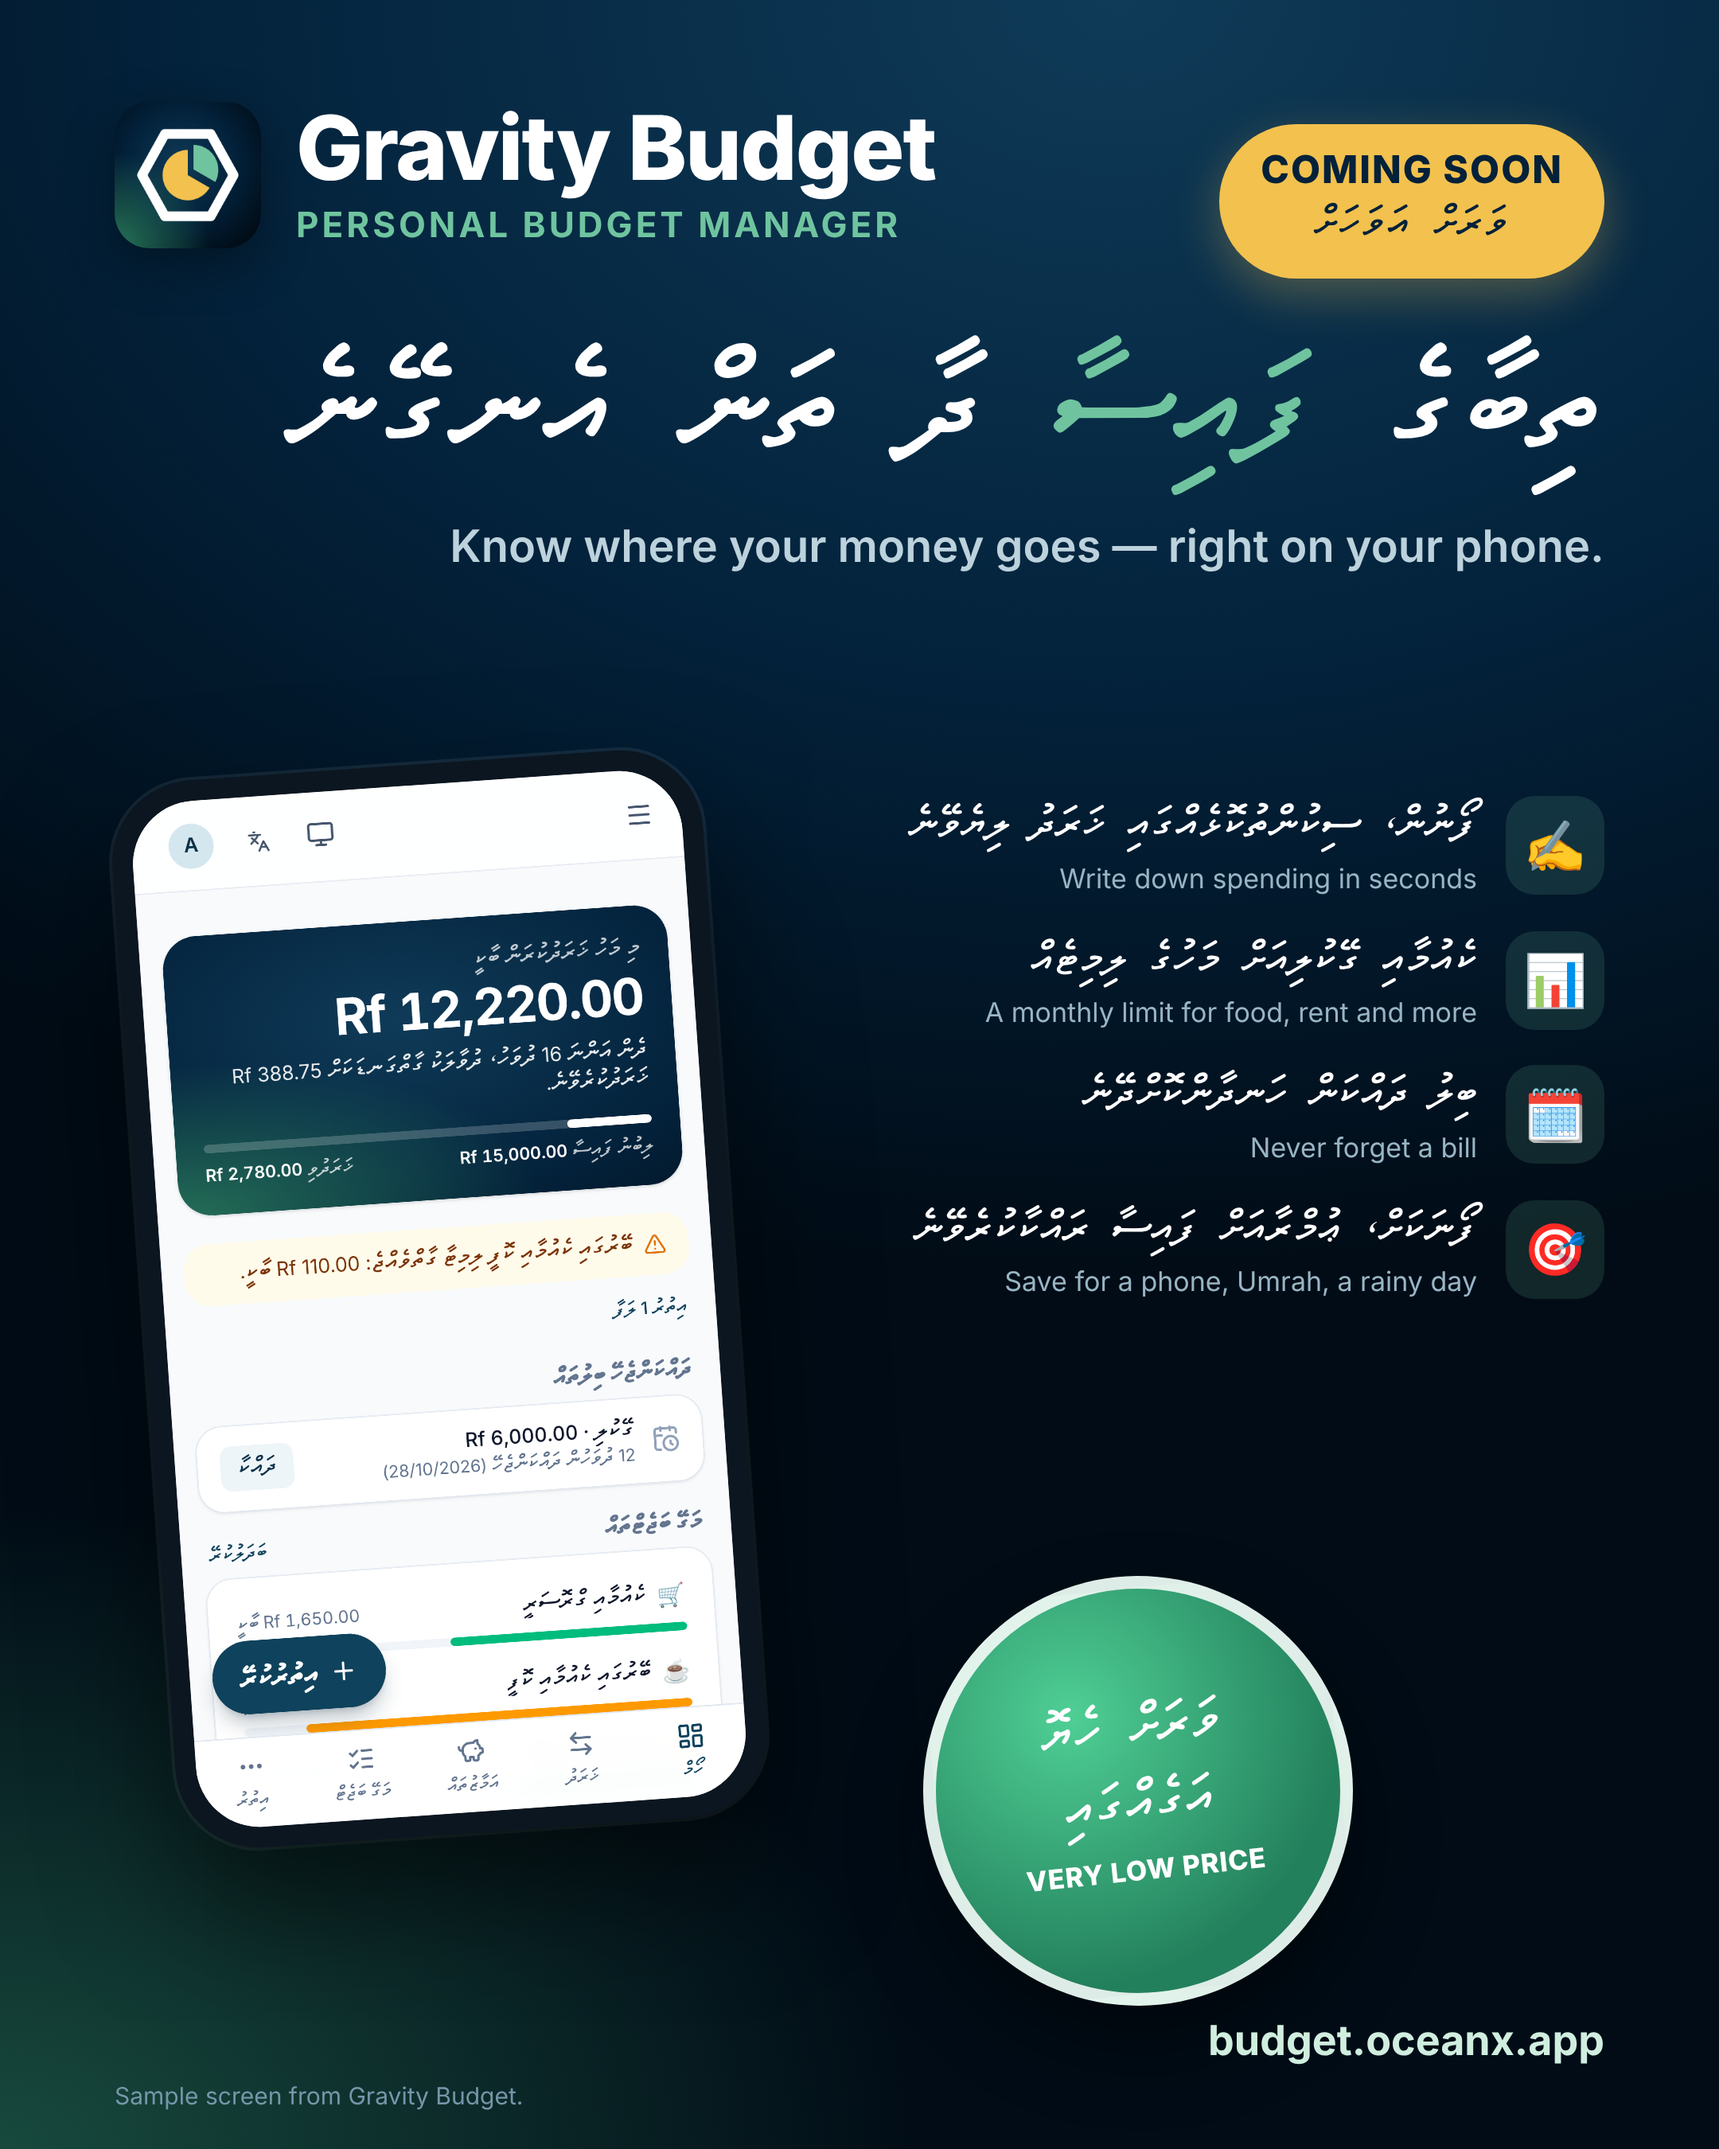
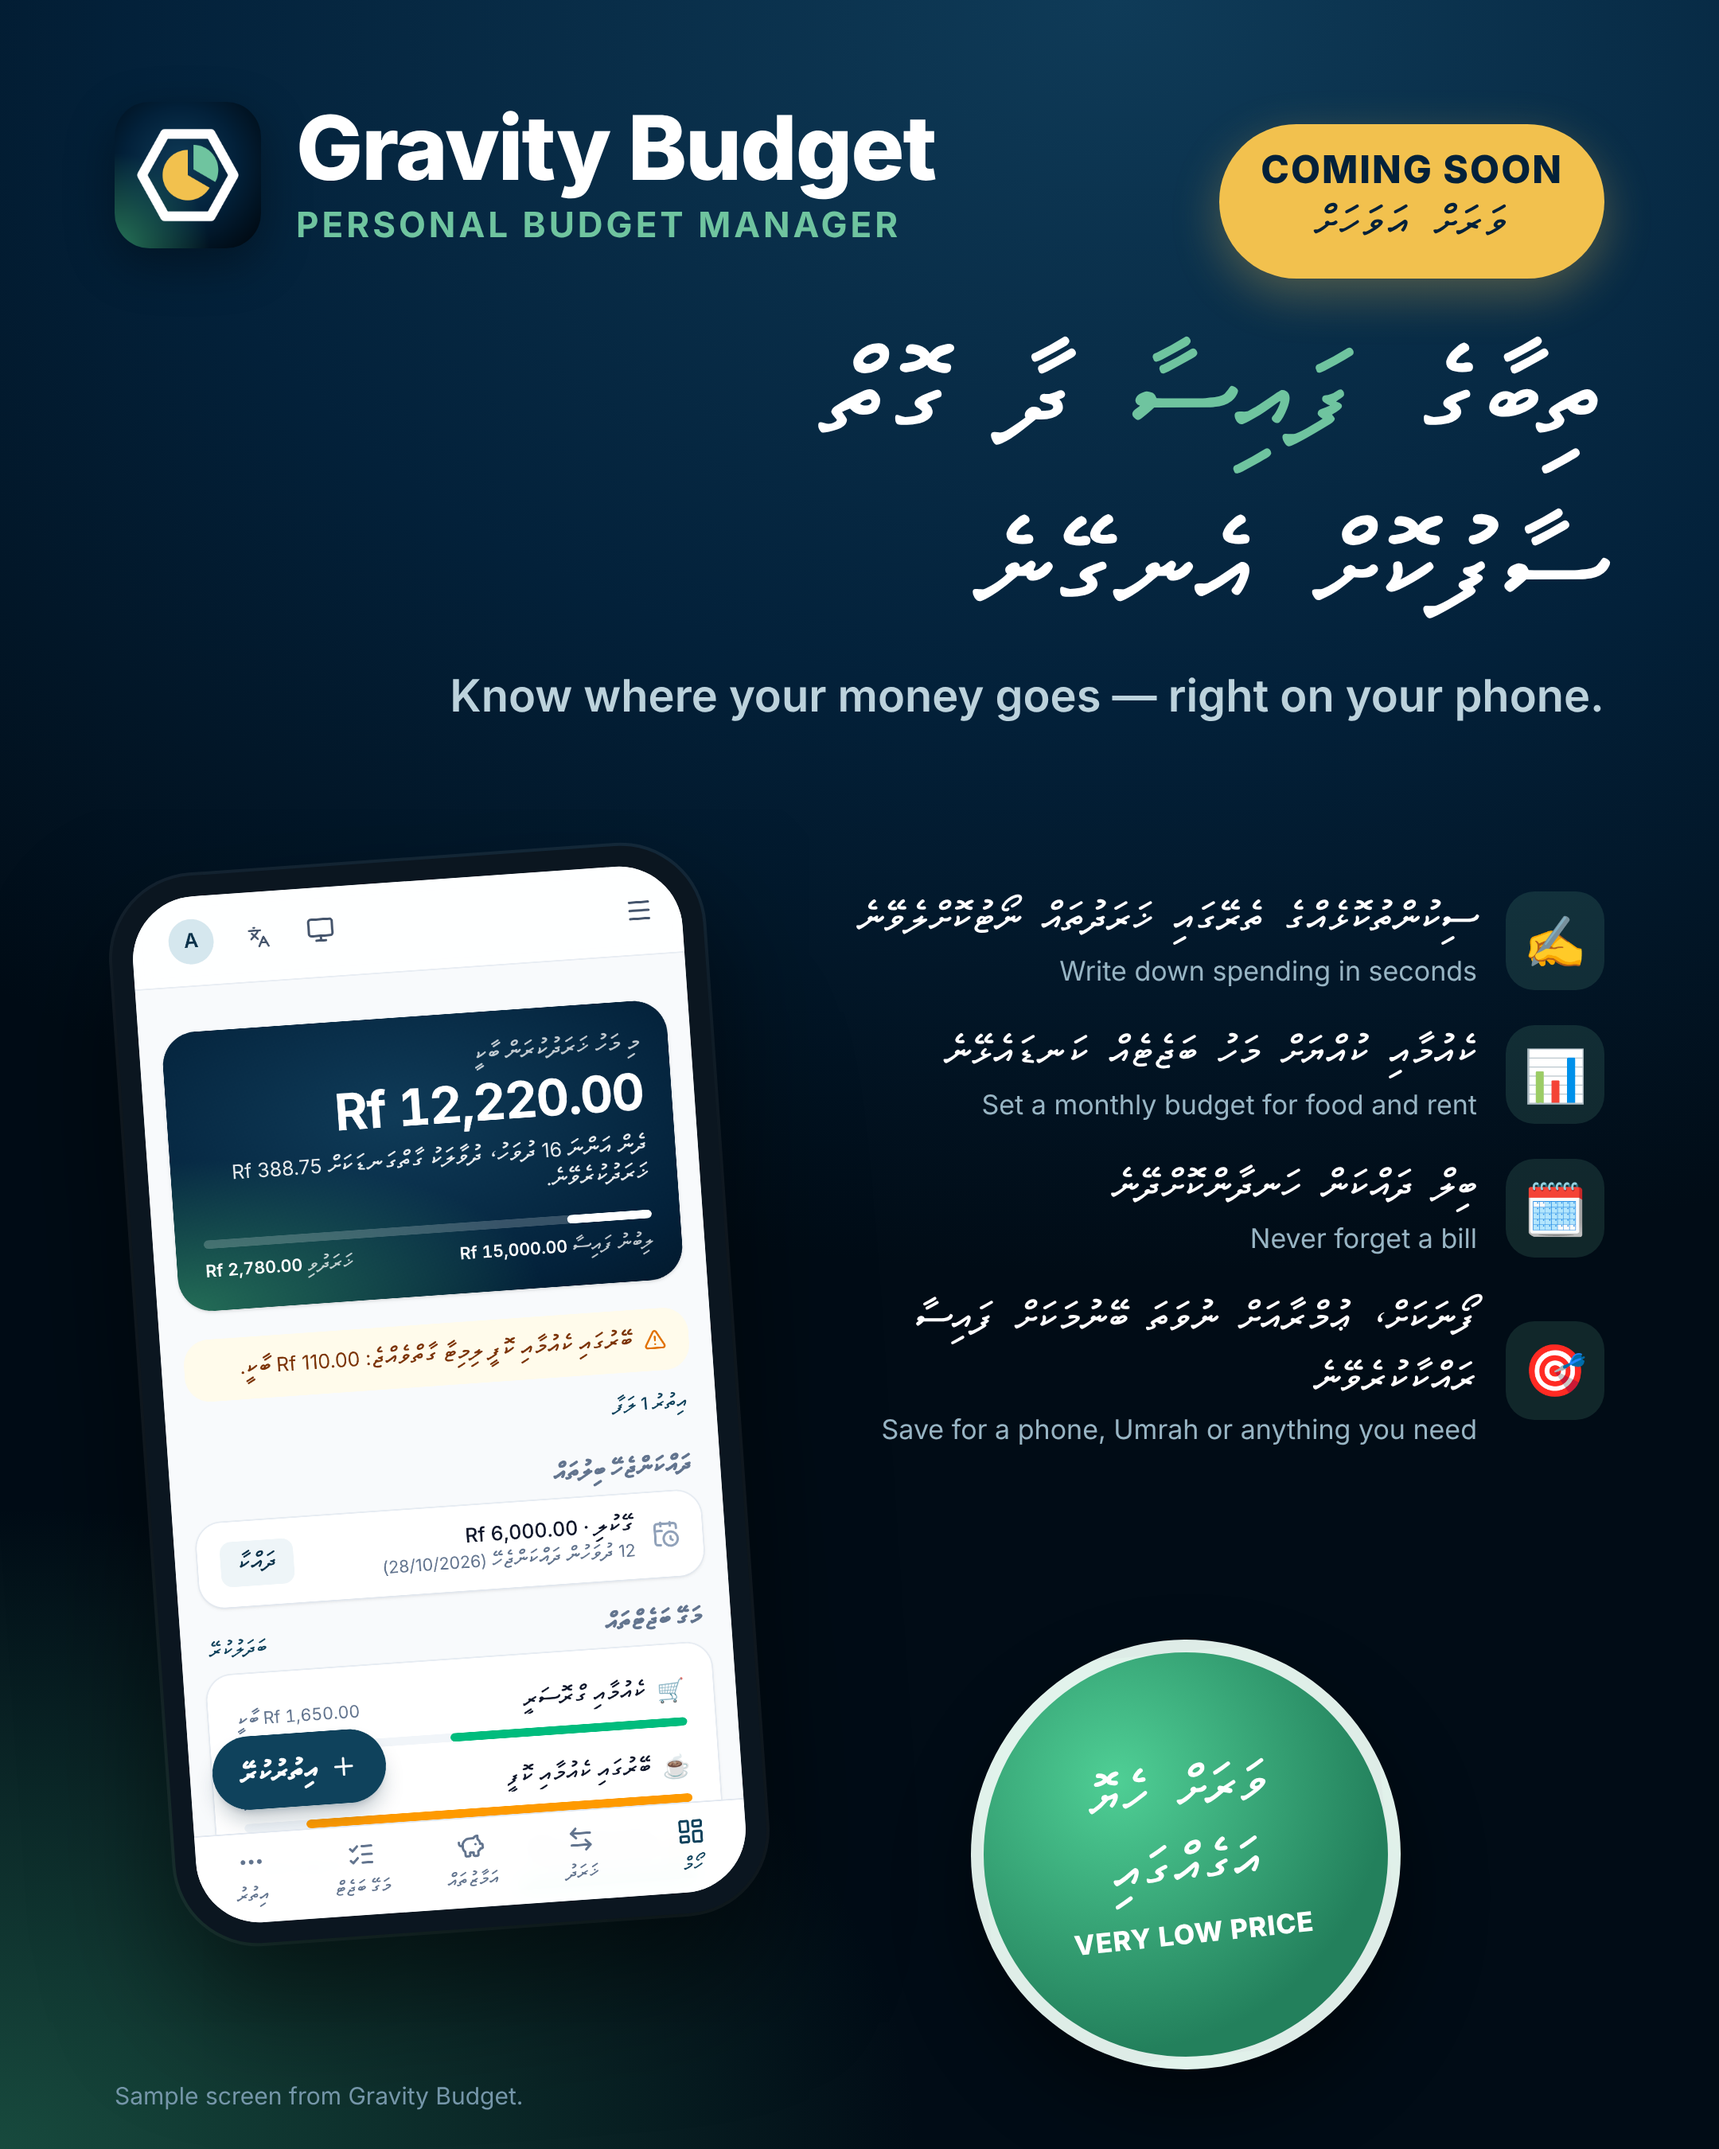
Gravity Budget: owner's Dhivehi wording on the poster and in the app; poster without the web address
Claude-Session: https://claude.ai/code/session_01H3ZKyiXQBCQKHDZabkJ7MS

diff --git a/docs/TRANSLATION-REVIEW.md b/docs/TRANSLATION-REVIEW.md
@@ -3,7 +3,7 @@
 Generated from `packages/shared/locales/review/dv.json` — edit that file, then run
 `npx tsx packages/shared/scripts/review-md.ts`.
 
-Status: **needs_review**: 1288 · **confirmed**: 148
+Status: **needs_review**: 1284 · **confirmed**: 152
 
 All other Dhivehi strings (`packages/shared/locales/dv.json`, 764 keys) are complete drafts using common Maldivian
 business usage (English loanwords in Thaana for system terms such as ޕާސްވޯޑް, ސެޓިންގްސް, އިންވޮއިސް). A native
@@ -127,9 +127,6 @@ review of the whole file is still recommended before launch.
 | `budget.after_bills` | Bills still to pay ({{amount}}) are already kept aside. | އަދި ދައްކަންޖެހޭ ބިލުތައް ({{amount}}) ވަކިކޮށް ބަހައްޓާފައިވޭ. | needs_review | Gravity Budget (new product). Machine-suggested; please check. |
 | `budget.all_categories` | All categories | ހުރިހާ ބާވަތެއް | needs_review | Gravity Budget (new product). Machine-suggested; please check. |
 | `budget.all_records` | All records | ހުރިހާ ރެކޯޑެއް | needs_review | Gravity Budget (new product). Machine-suggested; please check. |
-| `budget.aside_1` | Write down spending in seconds, on your phone | ފޯނުން، ސިކުންތުކޮޅެއްގައި ޚަރަދު ލިޔެވޭނެ | needs_review | Gravity Budget (new product). Machine-suggested; please check. |
-| `budget.aside_2` | A monthly limit for food, rent, bills and more | ކެއުން، ގޭކުލި، ބިލުތަކާއި އެހެން ކަންކަމަށް މަހުގެ ލިމިޓެއް | needs_review | Gravity Budget (new product). Machine-suggested; please check. |
-| `budget.aside_3` | Save for a phone, Umrah, a wedding or a rainy day | ފޯނަކަށް، ޢުމްރާއަށް، ކައިވެންޏަކަށް ނުވަތަ ކުއްލި ހާލަތަކަށް ފައިސާ ރައްކާކުރެވޭނެ | needs_review | Gravity Budget (new product). Machine-suggested; please check. |
 | `budget.aside_4` | A monthly report you can download as PDF | PDF ގޮތުގައި ޑައުންލޯޑް ކުރެވޭ މަހުގެ ރިޕޯޓެއް | needs_review | Gravity Budget (new product). Machine-suggested; please check. |
 | `budget.aside_title` | Stop wondering where your salary went. | މުސާރަ ދިޔައީ ކޮންތާކަށްތޯ ދެން ވިސްނަން ނުޖެހޭނެ. | needs_review | Gravity Budget (new product). Machine-suggested; please check. |
 | `budget.avg_spent` | On average you spend {{amount}} a month. | އެވްރެޖްކޮށް މަހަކު {{amount}} ޚަރަދުކުރޭ. | needs_review | Gravity Budget (new product). Machine-suggested; please check. |
@@ -308,7 +305,6 @@ review of the whole file is still recommended before launch.
 | `budget.starter.utilities` | Electricity & water | ކަރަންޓާއި ފެން | needs_review | Gravity Budget (new product). Machine-suggested; please check. |
 | `budget.status` | Status | ހާލަތު | needs_review | Gravity Budget (new product). Machine-suggested; please check. |
 | `budget.still_to_pay` | {{amount}} still to pay | އަދި {{amount}} ދައްކަންޖެހޭ | needs_review | Gravity Budget (new product). Machine-suggested; please check. |
-| `budget.tagline` | Know where your money goes | ތިބާގެ ފައިސާ ދާ ތަން އެނގޭނެ | needs_review | Gravity Budget (new product). Machine-suggested; please check. |
 | `budget.take_out` | Take money out of {{name}} | {{name}} އިން ފައިސާ ނަގާ | needs_review | Gravity Budget (new product). Machine-suggested; please check. |
 | `budget.take_out_short` | Take out | ނަގާ | needs_review | Gravity Budget (new product). Machine-suggested; please check. |
 | `budget.this_month_title` | This month | މި މަސް | needs_review | Gravity Budget (new product). Machine-suggested; please check. |
@@ -1301,6 +1297,10 @@ review of the whole file is still recommended before launch.
 | `viber.status_on` | Viber notifications will be sent for Credit (Pay Later) transactions when the customer has a registered Viber number. | ކަސްޓަމަރުގެ Viber ނަންބަރު ރަޖިސްޓަރީކޮށްފައިވާނަމަ، ދަރަންޏަށް (ފަހުން ދައްކާ) ކުރާ މުޢާމަލާތްތަކަށް Viber ނޯޓިފިކޭޝަން ފޮނުވޭނެ. | needs_review | Loanword ނޯޓިފިކޭޝަން used; alternative: އެންގުން / ހަބަރު. Confirm preferred term. |
 | `account.reduce_animations` | Reduce animations | އެނިމޭޝަންތައް މަދުކުރޭ | confirmed | Translated by the business owner (native speaker). |
 | `account.theme_dark` | Dark | އަނދިރި | confirmed | Translated by the business owner (native speaker). |
+| `budget.aside_1` | Write down spending in seconds, on your phone | ސިކުންތުކޮޅެއްގެ ތެރޭގައި ޚަރަދުތައް ނޯޓުކޮށްލެވޭނެ | confirmed | Translated by the business owner (native speaker). |
+| `budget.aside_2` | A monthly limit for food, rent, bills and more | ކެއުމާއި ކުއްޔަށް މަހު ބަޖެޓެއް ކަނޑައެޅޭނެ | confirmed | Translated by the business owner (native speaker). |
+| `budget.aside_3` | Save for a phone, Umrah, a wedding or a rainy day | ފޯނަކަށް، ޢުމްރާއަށް ނުވަތަ ބޭނުމަކަށް ފައިސާ ރައްކާކުރެވޭނެ | confirmed | Translated by the business owner (native speaker). |
+| `budget.tagline` | Know where your money goes | ތިބާގެ ފައިސާ ދާ ގޮތް ސާފުކޮށް އެނގޭނެ | confirmed | Translated by the business owner (native speaker). |
 | `common.reset` | Reset | އަލުން ފަށާ | confirmed | Translated by the business owner (native speaker). |
 | `common.showing_range` | Showing {{from}}–{{to}} of {{total}} | ދައްކަނީ: {{total}} ގެ ތެރެއިން {{from}} އިން {{to}} އަށް | confirmed | Translated by the business owner (native speaker). |
 | `credit.all_time` | All time | ހުރިހާ ދުވަސްވަރެއް | confirmed | Translated by the business owner (native speaker). |
